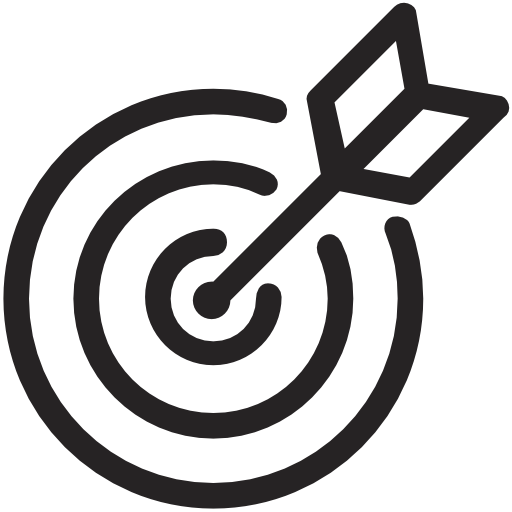
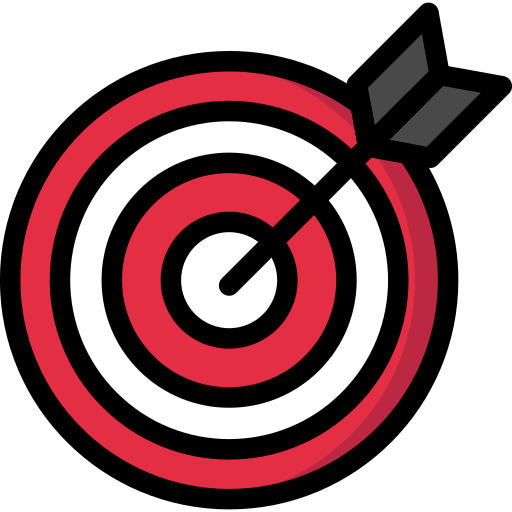
v0.1

diff --git a/src/core_game_logic.cpp b/src/core_game_logic.cpp
@@ -187,6 +187,7 @@ SDL_Event event;                          // event loop object initialise
 // Global variables automatically destroyed at end of main() no need to manual destroy
 
 // Scene 1 buttons
+Custom_SDL_Button scene1LoadGameButton(0, 0, 0, 0, "Button", 0, 0, 0, 0, "", false);
 Custom_SDL_Button scene1newGameButton(0, 0, 0, 0, "Button", 0, 0, 0, 0, "", false);
 Custom_SDL_Button scene1settingsButton(0, 0, 0, 0, "Button", 0, 0, 0, 0, "", false);
 Custom_SDL_Button scene1AchievementsButton(0, 0, 0, 0, "Button", 0, 0, 0, 0, "", false);
@@ -194,6 +195,7 @@ Custom_SDL_Button scene1HelpButton(0, 0, 0, 0, "Button", 0, 0, 0, 0, "", false);
 Custom_SDL_Button scene1multiplayerButton(0, 0, 0, 0, "Button", 0, 0, 0, 0, "", false);
 Custom_SDL_Button scene1QuitButton(0, 0, 0, 0, "Button", 0, 0, 0, 0, "", false);
 Custom_SDL_Button scene1DeveloperLogoLinkButton(0, 0, 0, 0, "Button", 0, 0, 0, 0, "", false);
+
 // scene 7
 Custom_SDL_Button scene7acceptButton(0, 0, 0, 0, "Button", 0, 0, 0, 0, "", false);
 Custom_SDL_Button scene7denyButton(0, 0, 0, 0, "Button", 0, 0, 0, 0, "", false);
@@ -491,7 +493,6 @@ void new_game()
     gameWon = NULL;
     unlockedScenes.clear();
     unlockedAchievements.clear();
-    scene = 25;
 }
 std::string find_os()
 {
@@ -780,6 +781,7 @@ void draw_lives(int lives)
 void load_buttons_to_scene_vectors()
 {
     // scene 1
+    scene1buttons.push_back(&scene1LoadGameButton);
     scene1buttons.push_back(&scene1newGameButton);
     scene1buttons.push_back(&scene1settingsButton);
     scene1buttons.push_back(&scene1AchievementsButton);
@@ -846,6 +848,9 @@ void load_buttons_1()
 {
     scene1newGameButton = Custom_SDL_Button(static_cast<int>(windowWidth * 0.35), static_cast<int>(windowHeight * 0.25),
                                             rectWidth, rectHeight,
+                                            "", 144, 238, 144, 255, "assets/graphics/buttons/settings/load-button.png", false); // RGB: Light green
+    scene1newGameButton = Custom_SDL_Button(static_cast<int>(windowWidth * 0.35), static_cast<int>(windowHeight * 0.25),
+                                            rectWidth, rectHeight,
                                             "", 144, 238, 144, 255, "assets/graphics/buttons/settings/newgame-button.png", false); // RGB: Light green
     scene1settingsButton = Custom_SDL_Button(static_cast<int>(windowWidth * 0.35), static_cast<int>(windowHeight * 0.35),
                                              rectWidth, rectHeight,
@@ -855,7 +860,7 @@ void load_buttons_1()
                                                  "", 144, 238, 144, 255, "assets/graphics/buttons/settings/achievement-button.png", false); // RGB: Light green
     scene1HelpButton = Custom_SDL_Button(static_cast<int>(windowWidth * 0.35), static_cast<int>(windowHeight * 0.55),
                                          rectWidth, rectHeight,
-                                         "", 144, 238, 144, 255, "assets/graphics/buttons/settings/update-button.png", false); // RGB: Light green
+                                         "", 144, 238, 144, 255, "assets/graphics/buttons/settings/internet-button.png", false); // RGB: Light green
     scene1multiplayerButton = Custom_SDL_Button(static_cast<int>(windowWidth * 0.35), static_cast<int>(windowHeight * 0.65),
                                                 rectWidth, rectHeight,
                                                 "", 144, 238, 144, 255, "assets/graphics/buttons/settings/help-button.png", false); // RGB: Light green

diff --git a/headers/sdl_loads.hpp b/headers/sdl_loads.hpp
@@ -94,7 +94,7 @@ void load_textures()
     languageTexture = load_texture("assets/graphics/buttons/settings/language-button.png", "Language Button");
     settingsResetTexture = load_texture("assets/graphics/buttons/settings/update-button.png", "Reset settings Button");
     settingsSaveTexture = load_texture("assets/graphics/buttons/settings/save-button.png", "Save settings Button");
-    fpsTexture = load_texture("assets/graphics/buttons/settings/fps-button.png", "FPS Button");
+    fpsTexture = load_texture("assets/graphics/buttons/settings/Business-target-Icon-button.png", "FPS Button");
     keyRemapTexture = load_texture("assets/graphics/buttons/settings/keyboard-button.png", "Keyboard Mapping Button");
     resolution800x600Texture = load_texture("assets/graphics/buttons/settings/resolution-800x600-button.png", "Resolution 800x600 Button");
     resolution1366x768Texture = load_texture("assets/graphics/buttons/settings/resolution-1300x768-button.png", "Resolution 1366x768 Button");
